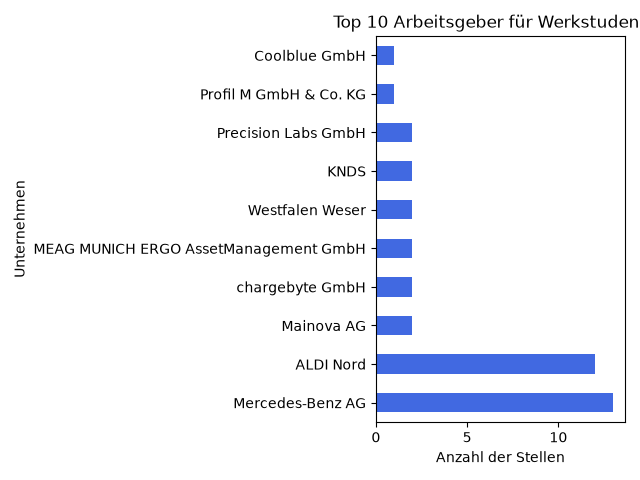
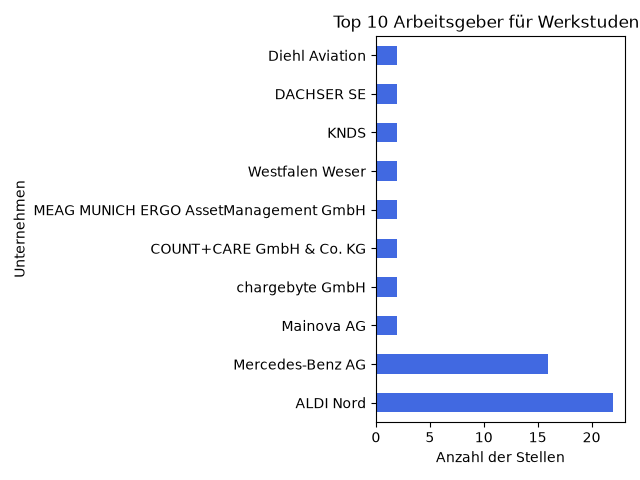
feat(backend): add scheduler every hour

diff --git a/scraper.py b/scraper.py
@@ -5,6 +5,7 @@ from curl_cffi import requests
 import time
 import random
 from random import uniform
+import schedule
 
 DB_CONFIG = {
     "dbname": os.getenv("DB_NAME", "job_market_db"),
@@ -84,10 +85,9 @@ def parse_jobs(html_content):
 
 
 
-create_table()
 
-
-for page in range(1, 51):
+def run_scraper():
+    for page in range(1, 51):
 
     # Zukünftige Keyword zulegung:
     # city = ["Mannheim", "Ludwigshafen"]
@@ -98,12 +98,23 @@ for page in range(1, 51):
     # searchOrigin=Resultlist_top-search"
     # zu   --> in-{city}
     
-    url = f"https://www.stepstone.de/jobs/werkstudent-in/in-deutschland?whatType=autosuggest&radius=30&page={page}&q=Werkstudent%2fin&searchOrigin=Resultlist_top-search"
-    html = fetch_page(url)
-    jobs = parse_jobs(html)
-    if len(jobs) == 0:
-        print("Keine weiteren jobs verfügbar")
-        break
-    save_to_db(jobs)
-    print(f"Seite {page}: {len(jobs)} Jobs verarbeitet")
-    time.sleep(random.uniform(2, 4))
+        url = f"https://www.stepstone.de/jobs/werkstudent-in/in-deutschland?whatType=autosuggest&radius=30&page={page}&q=Werkstudent%2fin&searchOrigin=Resultlist_top-search"
+        html = fetch_page(url)
+        jobs = parse_jobs(html)
+        if len(jobs) == 0:
+            print("Keine weiteren jobs verfügbar")
+            break
+        save_to_db(jobs)
+        print(f"Seite {page}: {len(jobs)} Jobs verarbeitet")
+        time.sleep(random.uniform(2, 4))
+
+
+create_table()
+run_scraper()
+
+# läuft jetzt jede Stunde
+
+schedule.every(1).hours.do(run_scraper)
+while True:
+    schedule.run_pending()
+    time.sleep(1)
